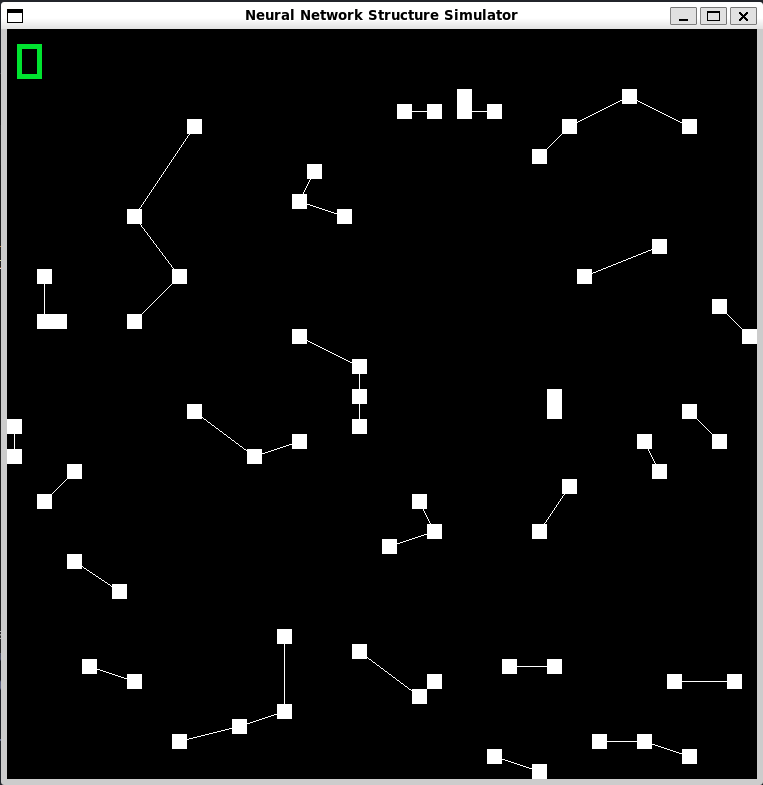
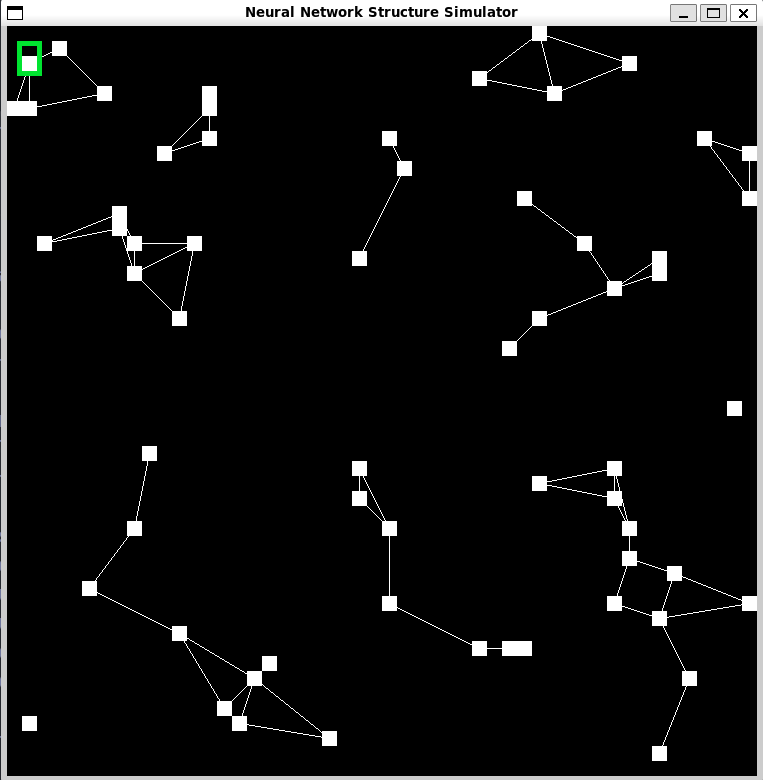
updated images

diff --git a/main.c b/main.c
@@ -4,9 +4,9 @@
 #include <stdlib.h>
 #include <stdio.h>
 
-#define WINDOW_SIZE 1000
-#define GRID_SLICES 120
-#define NEURON_PROB 0.012f
+#define WINDOW_SIZE 750
+#define GRID_SLICES 50
+#define NEURON_PROB 0.025f
 
 int main() {
     srand(time(NULL));
